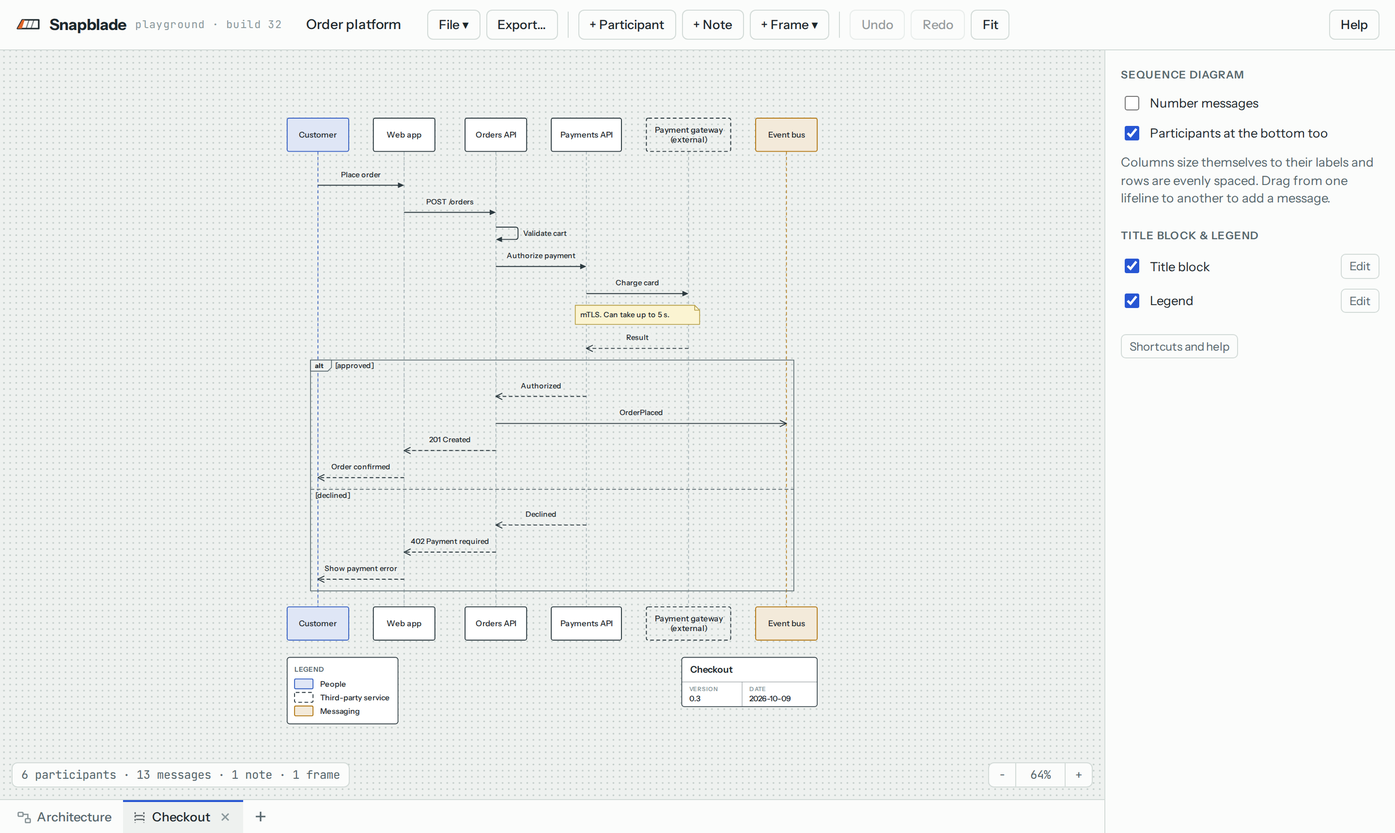
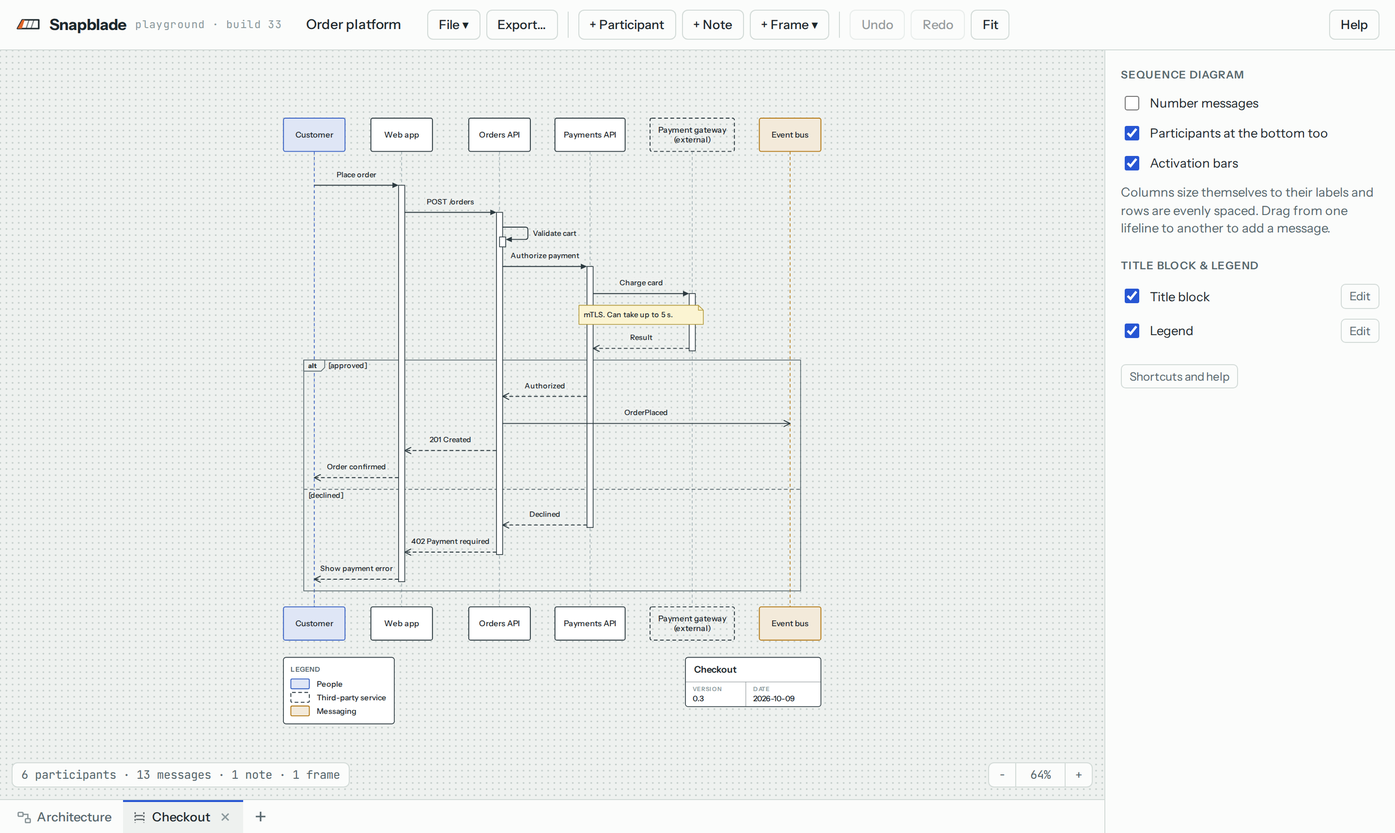
Sequence diagrams: activation bars
Drawn automatically, on by default (Activation bars setting). A sync
call opens a bar on the callee; each reply closes the latest open call
between the two, so re-entrant calls nest. Alt sections are alternative
paths, so a reply in each keeps the bar to the last. With no reply the
bar lasts to the callee's last message before the caller sends again;
async starts none. Arrows end at bar edges; notes and columns make room.
Frames now always cover their lifelines and keep off the ones they
don't. The tab export test waits for its downloads instead of a fixed
time. Build 33.

diff --git a/index.html b/index.html
@@ -269,6 +269,7 @@ dl.keys dd { margin: 0; }
 .n-fold { fill: none; stroke: var(--ln, var(--note-stroke)); stroke-width: 1.25; stroke-linejoin: round; }
 .note.sel .n-body, .note.sel .n-fold { stroke: var(--accent); stroke-width: 2; }
 .n-text { font: 500 12px var(--ui); fill: var(--ink); pointer-events: none; }
+.s-act { fill: var(--fl, var(--node-bg)); stroke: var(--ln, var(--node-stroke)); stroke-width: 1.25; pointer-events: none; }
 .frame, .fsec, .fend { cursor: row-resize; }
 .frame .hit, .fsec .hit, .fend .hit { fill: none; stroke: transparent; stroke-width: 12; }
 .f-box { fill: none; stroke: var(--ink-2); stroke-width: 1.25; pointer-events: none; }
@@ -379,7 +380,7 @@ dl.keys dd { margin: 0; }
         <path d="M11 17.5 L14 8.5 M16 17.5 L19 8.5" stroke="currentColor" stroke-width="1.2" opacity=".55"/>
         <path d="M2 17.5 L7 8.5 H9.5 L6.5 17.5 Z" fill="var(--port)"/>
       </svg>
-      Snapblade <span class="tag">playground &middot; build 32</span>
+      Snapblade <span class="tag">playground &middot; build 33</span>
     </div>
     <div class="doc">
       <input id="docName" class="docname" value="Untitled diagram" aria-label="Diagram name" spellcheck="false" autocomplete="off">
@@ -528,7 +529,7 @@ function sample() {
       E('e8', 'inv', 'cache'), { ...E('e9', 'inv', 'idb'), label: 'SQL' },
       { ...E('e10', 'pay', 'gw'), label: 'REST\nmTLS', style: { dash: 'dashed' } },
     ],
-    settings: { mode: 'straighten', grid: 10, showSlots: true, routing: 'ortho', radius: 6, labelPos: 'start', walls: true, autonumber: false, footbox: true },
+    settings: { mode: 'straighten', grid: 10, showSlots: true, routing: 'ortho', radius: 6, labelPos: 'start', walls: true, autonumber: false, footbox: true, activation: true },
     title: { ...titleDefaults(), show: true, title: 'Order platform', version: '0.3', date: todayIso() },
     legend: { ...legendDefaults(), show: true, labels: {
       'box:blue||pair': 'People and client apps', 'box:green||pair': 'Database', 'box:amber||pair': 'Cache',
@@ -1410,7 +1411,7 @@ function straighten(ids) {
    a message from one lifeline to another (or to itself), or a note beside, over or across lifelines. Nothing has a
    position: seqLayout() sizes each column from the labels next to it and spaces the rows evenly, so it stays tidy. */
 const SEQ = { minW: 100, padX: 14, headH: 40, nameLh: 16, gap: 40, rowTop: 30, rowGap: 14, lh: 15, labelPad: 12, head: 10,
-  self: 36, selfH: 20, noteGap: 12, notePad: 8, fold: 8, span: 18, tail: 26, framePad: 12, tabH: 18, tabCut: 6 };
+  self: 36, selfH: 20, noteGap: 12, notePad: 8, fold: 8, span: 18, tail: 26, framePad: 12, tabH: 18, tabCut: 6, actHalf: 5, actStep: 5, actStub: 16 };
 const MAX_PARTS = 100, MAX_ROWS = 1000;   // the most a file (or a paste) can add
 const MAX_DEPTH = 20;                      // frames inside frames
 const MSG_TYPES = [['sync', 'Sync'], ['async', 'Async'], ['reply', 'Reply']];
@@ -1431,6 +1432,8 @@ const hasContent = () => isSeq() ? S.parts.length > 0 : S.nodes.length > 0;
 // A reply is dashed unless its style says otherwise.
 const msgDash = r => r.style?.dash || (r.type === 'reply' ? 'dashed' : 'solid');
 const withDash = r => ({ ...r, style: { ...(r.style || {}), dash: msgDash(r) } });
+// An activation bar takes its participant's colors, but is always solid and filled, so it hides the lifeline.
+const barStyle = p => { const { dash, ...st } = p.style || {}; if (st.fill === 'none') delete st.fill; return { ...p, style: st }; };
 
 function seqSample() {
   const P = (id, label, o = {}) => ({ id, kind: 'participant', label, ...o });
@@ -1457,6 +1460,49 @@ function seqSample() {
   };
 }
 
+// Activation bars, from row indexes. A sync call starts one on the participant it calls, and a reply back closes the
+// latest open call between the two, as calls nest. An alt's sections are alternatives: each starts from the calls
+// open at the top of the frame, and a call's bar runs to its last reply in any of them. A call with no reply lasts to
+// the callee's last message before the caller sends again (a stub if there's none); an unanswered self-call is a stub.
+// Async messages start no bar. A bar that starts while another is open on the same participant sits one level in.
+function seqActivations(rows) {
+  const bars = [], frames = [];
+  let open = dict();   // "from>to": the calls still waiting for a reply, latest last
+  const copy = o => { const c = dict(); for (const k in o) c[k] = [...o[k]]; return c; };
+  rows.forEach((r, i) => {
+    if (r.kind === 'frame') frames.push(r.type === 'alt' ? { alt: true, top: copy(open), ends: [] } : {});
+    else if (r.kind === 'else') { const f = frames[frames.length - 1]; if (f?.alt) { f.ends.push(open); open = copy(f.top); } }
+    else if (r.kind === 'end') {
+      const f = frames.pop();
+      if (f?.alt) {
+        // After the alt, a call is still open if some section left it open (whichever section opened it).
+        const ends = [...f.ends, open], next = dict();
+        for (const k of new Set([...Object.keys(f.top), ...ends.flatMap(e => Object.keys(e))])) {
+          const top = f.top[k] || [], kept = top.filter(b => ends.some(e => (e[k] || []).includes(b)));
+          next[k] = [...kept, ...new Set(ends.flatMap(e => (e[k] || []).filter(b => !top.includes(b))))].sort((x, y) => x.i - y.i);
+        }
+        open = next;
+      }
+    } else if (isMsg(r) && r.type === 'sync') {
+      const b = { p: r.to, from: r.from, i, end: -1, key: r.from + '>' + r.to };
+      bars.push(b); (open[b.key] ||= []).push(b);
+    } else if (isMsg(r) && r.type === 'reply') {
+      const list = open[r.to + '>' + r.from], b = list?.pop();
+      if (b) b.end = Math.max(b.end, i);
+    }
+  });
+  const msgAt = j => isMsg(rows[j]) ? rows[j] : null;
+  for (const b of bars) {
+    if (b.end >= 0) continue;
+    b.end = b.i;
+    if (b.p === b.from) continue;
+    let j = b.i + 1;
+    for (; j < rows.length; j++) { const m = msgAt(j); if (m && m.from === b.from) break; }
+    for (let k = b.i + 1; k < j; k++) { const m = msgAt(k); if (m && (m.from === b.p || m.to === b.p)) b.end = k; }
+  }
+  for (const b of bars) b.level = bars.filter(o => o.p === b.p && o.i < b.i && o.end >= b.i).length;
+  return bars.map(({ p, i, end, level }) => ({ p, i, end, level }));
+}
 function seqLayout(fam = UI_STACK) {
   const nameFont = `500 13px ${fam}`, textFont = `500 12px ${fam}`;
   const linesOf = s => String(s).split('\n');
@@ -1468,29 +1514,37 @@ function seqLayout(fam = UI_STACK) {
   const need = P.map(() => []);
   const apart = (i, j, d) => { if (i > j) [i, j] = [j, i]; if (i !== j && i >= 0 && j < P.length) need[j].push([i, d]); };
   for (let i = 1; i < P.length; i++) apart(i - 1, i, (P[i - 1].w + P[i].w) / 2 + SEQ.gap);
+  // Activation: the deepest bar open on a participant at a row (-1 for none); `starting` counts one that starts there.
+  // An arrow ends at that bar's edge, so columns and notes make room for it.
+  const acts = S.settings.activation ? seqActivations(S.rows) : [];
+  const level = (p, r, starting) => acts.reduce((L, b) => b.p === p && (b.i < r && b.end >= r || starting && b.i === r) ? Math.max(L, b.level) : L, -1);
+  const reach = L => L < 0 ? 0 : L * SEQ.actStep + SEQ.actHalf;
   let num = 0;
-  const R = S.rows.map(r => {
+  const R = S.rows.map((r, idx) => {
     if (r.kind === 'frame') return { r, mark: 'frame', h: SEQ.tabH + 2 };
     if (r.kind === 'else') return { r, mark: 'else', h: guard(r.label) ? SEQ.lh + 4 : 4 };
     if (r.kind === 'end') return { r, mark: 'end', h: 0 };
     if (isNote(r)) {
       const ls = linesOf(r.label), w = Math.max(60, widest(ls, textFont) + 2 * SEQ.notePad + SEQ.fold), h = ls.length * SEQ.lh + 2 * SEQ.notePad;
       const a = at[r.on[0]], b = r.side === 'over' && r.on.length > 1 ? at[r.on[1]] : a;
-      if (r.side === 'right') apart(a, a + 1, w + 2 * SEQ.noteGap);
-      else if (r.side === 'left') apart(a - 1, a, w + 2 * SEQ.noteGap);
+      const L = acts.reduce((m, o) => o.p === r.on[0] && o.i < idx && o.end > idx ? Math.max(m, o.level) : m, -1);
+      const ext = r.side === 'left' ? (L < 0 ? 0 : SEQ.actHalf) : reach(L);   // a bar steps right as it nests
+      if (r.side === 'right') apart(a, a + 1, w + 2 * SEQ.noteGap + ext);
+      else if (r.side === 'left') apart(a - 1, a, w + 2 * SEQ.noteGap + ext);
       else if (a === b) { apart(a - 1, a, w / 2 + SEQ.noteGap); apart(a, a + 1, w / 2 + SEQ.noteGap); }
       else apart(a, b, w - 2 * SEQ.span);
-      return { r, note: true, ls, w, h, a: Math.min(a, b), b: Math.max(a, b) };
+      return { r, note: true, ls, w, h, a: Math.min(a, b), b: Math.max(a, b), ext };
     }
     const text = (S.settings.autonumber ? `${++num}. ` : '') + r.label;
     const ls = text ? linesOf(text) : [], lw = widest(ls, textFont), lh = ls.length * SEQ.lh, a = at[r.from], b = at[r.to];
+    const la = level(r.from, idx, false), lb = level(r.to, idx, r.type === 'sync');
     if (a === b) {
-      const loop = Math.max(SEQ.selfH, lh + 4);
-      apart(a, a + 1, SEQ.self + (lw ? lw + 8 : 0) + SEQ.labelPad);
-      return { r, self: true, ls, lw, lh, a, b, loop, h: loop + 10 };
+      const loop = Math.max(SEQ.selfH, lh + 4), out = Math.max(reach(la), reach(lb));
+      apart(a, a + 1, SEQ.self + out + (lw ? lw + 8 : 0) + SEQ.labelPad);
+      return { r, self: true, ls, lw, lh, a, b, la, lb, out, loop, h: loop + 10 };
     }
-    apart(a, b, lw + 2 * SEQ.labelPad);
-    return { r, ls, lw, lh, a, b, h: (ls.length ? lh + 5 : 6) + 10 };
+    apart(a, b, lw + 2 * SEQ.labelPad + reach(la) + reach(lb));
+    return { r, ls, lw, lh, a, b, la, lb, h: (ls.length ? lh + 5 : 6) + 10 };
   });
   const frames = seqFrameSpans(R, P, apart, fam);
   P.forEach((q, j) => { q.x = Math.round(j ? Math.max(...need[j].map(([i, d]) => P[i].x + d)) : q.w / 2); });
@@ -1502,21 +1556,31 @@ function seqLayout(fam = UI_STACK) {
     g.y = y; y += g.h + SEQ.rowGap;
     if (g.note) {
       const xa = P[g.a].x, xb = P[g.b].x;
-      if (g.r.side === 'right') g.x = xa + SEQ.noteGap;
-      else if (g.r.side === 'left') g.x = xa - SEQ.noteGap - g.w;
+      if (g.r.side === 'right') g.x = xa + g.ext + SEQ.noteGap;
+      else if (g.r.side === 'left') g.x = xa - g.ext - SEQ.noteGap - g.w;
       else if (g.a === g.b) g.x = Math.round(xa - g.w / 2);
       else { g.x = xa - SEQ.span; g.w = xb - xa + 2 * SEQ.span; }
       grow(g.x, g.x + g.w);
     } else if (g.self) {
-      g.x1 = g.x2 = P[g.a].x; g.ay = g.y + 5; g.by = g.ay + g.loop;
-      grow(g.x1, g.x1 + SEQ.self + (g.lw ? g.lw + 8 : 0));
+      // Out from the bar it's in, round, and back into the bar it starts (or to the same spot).
+      const x = P[g.a].x, edge = L => L < 0 ? 0 : L * SEQ.actStep + SEQ.actHalf;
+      g.x1 = x + edge(g.la); g.x2 = x + edge(g.lb); g.xr = x + g.out + SEQ.self; g.ay = g.y + 5; g.by = g.ay + g.loop;
+      grow(g.x1, g.xr + (g.lw ? g.lw + 8 : 0));
     } else if (!g.mark) {
-      g.x1 = P[g.a].x; g.x2 = P[g.b].x; g.ay = g.y + g.h - 5;
+      // Arrows start and end at the edge of an activation bar, the side facing the other end.
+      const dir = Math.sign(P[g.b].x - P[g.a].x) || 1, edge = (L, d) => L < 0 ? 0 : L * SEQ.actStep + d * SEQ.actHalf;
+      g.x1 = P[g.a].x + edge(g.la, dir); g.x2 = P[g.b].x + edge(g.lb, -dir); g.ay = g.y + g.h - 5;
     }
   }
+  const A = acts.map(b => {
+    const s = R[b.i], e = R[b.end], y1 = s.self ? s.by - 4 : s.ay, y2 = b.end === b.i ? y1 + SEQ.actStub : (e.self ? e.by : e.ay) + 4;
+    const q = P[at[b.p]], x = q.x + b.level * SEQ.actStep - SEQ.actHalf;
+    grow(x, x + 2 * SEQ.actHalf);
+    return { ...b, q, x, y1, y2, w: 2 * SEQ.actHalf };
+  });
   for (const f of frames) { seqFramePlace(f, R, P); grow(f.x1, f.x2); }
   const end = (R.length ? y - SEQ.rowGap : H + SEQ.rowTop) + SEQ.tail;   // where lifelines stop (and the bottom heads start)
-  return { H, P, R, end, bounds: { x1, y1: 0, x2, y2: S.settings.footbox ? end + H : end } };
+  return { H, P, R, A, end, bounds: { x1, y1: 0, x2, y2: S.settings.footbox ? end + H : end } };
 }
 // Frames, innermost first: the rows each holds, the columns they touch, and room for its tab and condition.
 // A frame is as wide as the lifelines its rows touch plus a margin, so a frame inside another sits inset.
@@ -1524,10 +1588,17 @@ function seqFrameSpans(R, P, apart, fam) {
   const font = `500 12px ${fam}`;
   const out = [], stack = [];
   R.forEach((g, i) => {
-    if (g.mark === 'frame') { const f = { g, i, secs: [], kids: [], a: Infinity, b: -Infinity, levels: 0 }; stack.at(-1)?.kids.push(f); stack.push(f); }
+    if (g.mark === 'frame') { const f = { g, i, secs: [], kids: [], items: [], a: Infinity, b: -Infinity, levels: 0 }; stack.at(-1)?.kids.push(f); stack.push(f); }
     else if (g.mark === 'else') stack.at(-1)?.secs.push(g);
     else if (g.mark === 'end') { const f = stack.pop(); if (!f) return; f.end = g; f.j = i; out.push(f); }
-    else for (const f of stack) { f.a = Math.min(f.a, g.a, g.b); f.b = Math.max(f.b, g.a, g.b); }
+    else {
+      // What reaches past a lifeline: {c: column, l: px to its left, r: px to its right}.
+      const side = g.r.side, w = g.w, gap = (g.ext || 0) + SEQ.noteGap + w;
+      const items = !g.note ? (g.self ? [{ c: g.a, l: 0, r: g.out + SEQ.self + (g.lw ? g.lw + 8 : 0) }] : [{ c: Math.min(g.a, g.b), l: 0, r: 0 }, { c: Math.max(g.a, g.b), l: 0, r: 0 }])
+        : side === 'right' ? [{ c: g.a, l: 0, r: gap }] : side === 'left' ? [{ c: g.a, l: gap, r: 0 }]
+        : g.a === g.b ? [{ c: g.a, l: w / 2, r: w / 2 }] : [{ c: g.a, l: SEQ.span, r: 0 }, { c: g.b, l: 0, r: SEQ.span }];
+      for (const f of stack) { f.items.push(...items); f.a = Math.min(f.a, g.a, g.b); f.b = Math.max(f.b, g.a, g.b); }
+    }
   });
   for (const f of out) {   // innermost first, so a frame knows what's inside it
     for (const k of f.kids) { f.a = Math.min(f.a, k.a); f.b = Math.max(f.b, k.b); f.levels = Math.max(f.levels, k.levels + 1); }
@@ -1540,6 +1611,9 @@ function seqFrameSpans(R, P, apart, fam) {
     const pad = SEQ.framePad * (f.levels + 1);
     if (f.a < f.b) apart(f.a, f.b, f.need - 2 * pad);
     else apart(f.a, f.a + 1, f.need - pad + SEQ.framePad);
+    // A frame never reaches a lifeline it doesn't cover.
+    const clear = pad + SEQ.framePad + SEQ.actHalf;
+    for (const it of f.items) { apart(it.c, f.b + 1, it.r + clear); apart(f.a - 1, it.c, it.l + clear); }
   }
   return out;
 }
@@ -1549,10 +1623,11 @@ function seqFramePlace(f, R, P) {
   for (let i = f.i + 1; i < f.j; i++) {
     const g = R[i];
     if (g.note) take(g.x, g.x + g.w);
-    else if (g.self) take(g.x1, g.x1 + SEQ.self + (g.lw ? g.lw + 8 : 0));
+    else if (g.self) take(Math.min(g.x1, g.x2), g.xr + (g.lw ? g.lw + 8 : 0));
     else if (!g.mark) take(Math.min(g.x1, g.x2), Math.max(g.x1, g.x2));
   }
   for (const k of f.kids) take(k.x1, k.x2);
+  if (f.a <= f.b) take(P[f.a].x - SEQ.actHalf, P[f.b].x + SEQ.actHalf);   // its lifelines, and the bars on them
   if (x1 > x2) { const a = P[0]?.x ?? 0, b = P[P.length - 1]?.x ?? a; x1 = a - SEQ.framePad; x2 = b + SEQ.framePad; }
   else { x1 -= SEQ.framePad; x2 += SEQ.framePad; }
   x2 = Math.max(x2, x1 + f.need);
@@ -1562,7 +1637,7 @@ function seqFramePlace(f, R, P) {
 }
 // Draw a layout. `p` paints: CSS classes and hit areas on the canvas, plain colors in exports.
 function seqMarkup(L, p) {
-  const { H, P, R, end } = L, r2 = v => Math.round(v * 100) / 100;
+  const { H, P, R, A = [], end } = L, r2 = v => Math.round(v * 100) / 100;
   const texts = (ls, x, top, lh, size, attrs, anchor) => ls.map((t, i) =>
     `<text x="${r2(x)}" y="${r2(top + i * lh + lh / 2 + size * 0.35)}" text-anchor="${anchor}" ${attrs}>${esc(t)}</text>`).join('');
   let out = '';
@@ -1587,6 +1662,7 @@ function seqMarkup(L, p) {
         + '</g>';
     } else out += `<g ${p.frameEnd(g)}>${p.hit(across)}</g>`;
   }
+  for (const a of A) out += `<rect x="${a.x}" y="${r2(a.y1)}" width="${a.w}" height="${r2(a.y2 - a.y1)}" ${p.act(a)}/>`;
   for (const g of R) {
     if (g.mark) continue;
     if (g.note) {
@@ -1600,8 +1676,8 @@ function seqMarkup(L, p) {
     const open = g.r.type !== 'sync', inset = open ? 0 : SEQ.head / 2;
     let d, dir;
     if (g.self) {
-      const x = g.x1, xr = x + SEQ.self;
-      d = pathD([{ x, y: g.ay }, { x: xr, y: g.ay }, { x: xr, y: g.by }, { x: x + inset, y: g.by }], 4); dir = -1;
+      const xr = g.xr;
+      d = pathD([{ x: g.x1, y: g.ay }, { x: xr, y: g.ay }, { x: xr, y: g.by }, { x: g.x2 + inset, y: g.by }], 4); dir = -1;
     } else {
       dir = Math.sign(g.x2 - g.x1) || 1;
       d = `M${g.x1},${g.ay} L${g.x2 - dir * inset},${g.ay}`;
@@ -1610,7 +1686,7 @@ function seqMarkup(L, p) {
     const arrow = open ? `<path d="M${bx},${ty - hw} L${tx},${ty} L${bx},${ty + hw}" ${p.open(g)}/>`
       : `<path d="M${tx},${ty} L${bx},${ty - hw} L${bx},${ty + hw} Z" ${p.fill(g)}/>`;
     let label = '';
-    if (g.ls.length && g.self) label = texts(g.ls, g.x1 + SEQ.self + 8, (g.ay + g.by - g.lh) / 2, SEQ.lh, 12, p.label(g), 'start');
+    if (g.ls.length && g.self) label = texts(g.ls, g.xr + 8, (g.ay + g.by - g.lh) / 2, SEQ.lh, 12, p.label(g), 'start');
     else if (g.ls.length) {
       const mid = (g.x1 + g.x2) / 2;   // the label breaks the lifelines it crosses
       label = `<rect x="${r2(mid - g.lw / 2 - 4)}" y="${g.y - 1}" width="${g.lw + 8}" height="${g.lh + 2}" rx="2" ${p.labelBg(g)}/>`
@@ -1896,7 +1972,8 @@ function normalize(s) {
     showSlots: typeof st.showSlots === 'boolean' ? st.showSlots : def.showSlots, routing: oneOf(st.routing, valuesOf(ROUTINGS), def.routing),
     radius: numIn(st.radius, def.radius, 0, 16), labelPos: oneOf(st.labelPos, LABEL_POS, def.labelPos),
     walls: typeof st.walls === 'boolean' ? st.walls : def.walls,
-    autonumber: typeof st.autonumber === 'boolean' ? st.autonumber : def.autonumber, footbox: typeof st.footbox === 'boolean' ? st.footbox : def.footbox };
+    autonumber: typeof st.autonumber === 'boolean' ? st.autonumber : def.autonumber, footbox: typeof st.footbox === 'boolean' ? st.footbox : def.footbox,
+    activation: typeof st.activation === 'boolean' ? st.activation : def.activation };
   const ti = isObj(s.title) ? s.title : {}, tdef = titleDefaults();
   const title = { show: ti.show === true, title: strOr(ti.title), version: strOr(ti.version), date: strOr(ti.date), author: strOr(ti.author), pos: oneOf(ti.pos, CORNER_IDS, tdef.pos) };
   const lg = isObj(s.legend) ? s.legend : {}, ldef = legendDefaults();
@@ -1966,6 +2043,7 @@ function settingsDocs() {
     walls: `true or false: keep shapes ${WALL} px apart while the user edits. Default ${d.walls}.`,
     autonumber: `true or false: number the messages of a sequence diagram. Default ${d.autonumber}.`,
     footbox: `true or false: draw a sequence diagram's participants at the bottom too. Default ${d.footbox}.`,
+    activation: `true or false: draw a sequence diagram's activation bars (see Sequence diagrams). Default ${d.activation}.`,
   };
 }
 const legendExamples = () => [
@@ -2098,7 +2176,7 @@ A sequence diagram is a different kind of file: participants left to right, and 
 - A message: \`{"id": "m1", "from": "cust", "to": "web", "type": "sync", "label": "Place order"}\`. \`from\` and \`to\` are participant ids, the same one for a self-message; a message naming a participant that doesn't exist is dropped. \`type\` is ${or(valuesOf(MSG_TYPES).map(q))}: a call that waits for an answer (filled arrowhead), one that doesn't wait (open arrowhead), or the answer (dashed). Default \`"sync"\`. \`style\`: \`line\` and \`dash\` only; a reply is dashed unless \`dash\` says otherwise.
 - A note: \`{"id": "n1", "kind": "note", "side": "right", "on": ["gw"], "label": "Can take up to 5 s"}\`. \`side\` is ${or(valuesOf(NOTE_SIDES).map(q))}. \`on\` lists the participant it sits beside, or for \`"over"\` one or two participants (the note spans from one to the other). A note takes a row of its own. \`style\` works as for boxes.
 - A frame (alt, opt, loop, par) is rows around the rows it holds: a start \`{"id": "f1", "kind": "frame", "type": "alt", "label": "approved"}\`, then the rows, then an end \`{"id": "f1x", "kind": "end"}\`. For an alt or par, an else line \`{"id": "f1e", "kind": "else", "label": "declined"}\` between them starts the next section. \`type\` is ${or(valuesOf(FRAME_TYPES).map(q))}: ${FRAME_TYPES.map(([v]) => FRAME_HINTS[v]).join(', ')}. Default ${q('alt')}. \`label\` is the condition, shown in brackets (leave the brackets out). Frames nest, at most ${MAX_DEPTH} deep. An end with no start, or an else line outside an alt or par, is dropped; a start with no end is closed after the last row. A frame is drawn as wide as the lifelines its rows touch.
-- \`settings.autonumber\` numbers the messages and \`settings.footbox\` repeats the participants at the bottom; the other settings don't apply. The title block and legend work as above.
+- \`settings.autonumber\` numbers the messages, \`settings.footbox\` repeats the participants at the bottom, and \`settings.activation\` (default \`true\`) draws activation bars. Bars are automatic: a sync call starts one on the participant it calls, and a reply back closes the latest open call between the two (in an alt, each section's reply counts and the bar runs to the last). A call with no reply lasts to that participant's last message before the caller sends again. Async messages start none. So send a reply for every call you want to read as finished. The other settings don't apply. The title block and legend work as above.
 - Put each reply right after the call it answers. Keep labels short: an operation, an endpoint or an event name.
 
 The sequence sample that ships with Snapblade:
@@ -2538,6 +2616,7 @@ function renderSeq() {
     labelBg: () => 'class="s-label-bg"', label: () => 'class="s-label"',
     note: g => `class="${cls('note', g.r.id)}" data-role="row" data-id="${esc(g.r.id)}" style="${styleVars(g.r)}"`,
     noteBody: () => 'class="n-body"', fold: () => 'class="n-fold"', noteText: () => 'class="n-text"',
+    act: a => `class="s-act" style="${styleVars(barStyle(a.q.p))}"`,
     frame: g => `class="${cls('frame', g.r.id)}" data-role="row" data-id="${esc(g.r.id)}"`,
     frameBox: () => 'class="f-box"', tab: () => 'class="f-tab"', kind: () => 'class="f-kind"', guard: () => 'class="f-guard"',
     sec: g => `class="${cls('fsec', g.r.id)}" data-role="row" data-id="${esc(g.r.id)}"`, secLine: () => 'class="f-else"',
@@ -2664,6 +2743,7 @@ function seqDiagramPanel() {
     <p class="eyebrow">Sequence diagram</p>
     <label class="check"><input id="f-autonumber" type="checkbox" data-field="autonumber"${st.autonumber ? ' checked' : ''}> Number messages</label>
     <label class="check"><input id="f-footbox" type="checkbox" data-field="footbox"${st.footbox ? ' checked' : ''}> Participants at the bottom too</label>
+    <label class="check"><input id="f-activation" type="checkbox" data-field="activation"${st.activation ? ' checked' : ''}> Activation bars</label>
     <p class="desc">Columns size themselves to their labels and rows are evenly spaced. Drag from one lifeline to another to add a message.</p>
   </section>
   ${annSection()}`;
@@ -2987,7 +3067,7 @@ function onField(t) {
   if (f === 'radius') { st.radius = +t.value; t.previousElementSibling.textContent = `Corner radius · ${st.radius} px`; render(); save(); return; }
   if (f === 'showSlots') { st.showSlots = t.checked; render(); save(); return; }
   if (f === 'walls') { st.walls = t.checked; save(); return; }
-  if (f === 'autonumber' || f === 'footbox') { st[f] = t.checked; render(); save(); return; }
+  if (f === 'autonumber' || f === 'footbox' || f === 'activation') { st[f] = t.checked; render(); save(); return; }
   if (f === 'showTitle' || f === 'showLegend') {
     pushUndo();
     const blk = f === 'showTitle' ? S.title : S.legend;
@@ -3248,7 +3328,7 @@ function openSeqEditor(id, fresh) {
     if (g.mark === 'frame') b = { x: g.x1 + g.tw + 2, y: g.y - 4, w: Math.max(180, g.gw + 30), h: SEQ.tabH + 8 };
     else if (g.mark === 'else') b = { x: g.x1 + 4, y: g.y, w: Math.max(180, g.gw + 30), h: SEQ.lh + 10 };
     else if (isNote(o)) b = { x: g.x, y: g.y, w: g.w, h: g.h };
-    else if (g.self) b = { x: g.x1 + SEQ.self + 4, y: g.y, w: Math.max(140, g.lw + 20), h: Math.max(30, g.h) };
+    else if (g.self) b = { x: g.xr + 4, y: g.y, w: Math.max(140, g.lw + 20), h: Math.max(30, g.h) };
     else { const w = Math.max(140, g.lw + 20); b = { x: (g.x1 + g.x2) / 2 - w / 2, y: g.y - 4, w, h: Math.max(30, g.lh + 10) }; }
   }
   Object.assign(editor.style, { left: b.x * view.k + view.x + 'px', top: b.y * view.k + view.y + 'px', width: Math.max(120, b.w * view.k) + 'px',
@@ -3751,7 +3831,8 @@ function guideHtml() {
       <li>The <b>Frame</b> panel sets its <b>Kind</b> and <b>Condition</b>. In an Alt, <b>+ Else line</b> starts another section (in a Par, <b>+ And line</b>): it goes in at the bottom of the frame, and you drag it up to where its section starts. An <b>Else line</b> or <b>And line</b> has its own Condition, and <b>Delete line</b>. Switching to Opt or Loop removes the lines, not the rows.</li>
       <li>Drag a frame's top or bottom edge to take in more or fewer rows; a message dragged past an edge moves in or out. <b>Move up</b> and <b>Move down</b> (or the arrow keys) move the whole frame with what's in it. <b>Remove frame</b> or the Delete key takes the frame away and keeps what was inside; <b>Delete with contents</b> takes everything. Frames nest, and each one is as wide as the lifelines its rows touch.</li>
       <li><b>Duplicate</b> (Ctrl+D) puts a copy of a message, note, frame (with what's in it) or participant right after it. <b>Delete message</b>, <b>Delete note</b>, <b>Delete participant</b> or the Delete key removes one.</li>
-      <li>The <b>Sequence diagram</b> settings: <b>Number messages</b>, and <b>Participants at the bottom too</b>.</li></ul>`],
+      <li>The <b>Sequence diagram</b> settings: <b>Number messages</b>, <b>Participants at the bottom too</b> and <b>Activation bars</b>.</li>
+      <li>Activation bars draw themselves. A Sync call starts a bar on the participant it calls, which lasts until the last Reply back (so a reply in each section of an alt keeps it going through all of them). With no reply, it lasts until that participant's last message before the caller sends anything else. Async messages start no bar. A call into a participant that's already busy, or a self-message, adds a bar beside the first. Arrows end at the bars, and notes keep clear of them.</li></ul>`],
     ['tabs', 'Tabs', `<p>One file can hold several diagrams, each on its own tab along the bottom of the canvas: an architecture view and the sequence diagrams that go with it, say.</p><ul>
       <li><b>Add a tab</b> (the + at the end of the tabs) offers a <b>Box diagram</b>, a <b>Sequence diagram</b>, or <b>Duplicate this tab</b>. A new tab goes right after the open one.</li>
       <li>Click a tab to open it. Double-click the open tab (or press F2 on it) to rename it; drag a tab sideways to move it. The arrow keys move between tabs when one has the focus.</li>
@@ -4138,6 +4219,7 @@ function buildExportSvg(o) {
       noteBody: g => { const c = col(g.r); return `fill="${c.fill}"${fo(c)} stroke="${c.line}" stroke-width="1.25" stroke-linejoin="round"${dash(g.r.style)}`; },
       fold: g => `fill="none" stroke="${col(g.r).line}" stroke-width="1.25" stroke-linejoin="round"`,
       noteText: () => `${fontAttrs(12, 500)} fill="${ink}"`,
+      act: a => { const c = col(barStyle(a.q.p)); return `fill="${c.fill}"${fo(c)} stroke="${c.line}" stroke-width="1.25"`; },
       frame: () => '', sec: () => '', frameEnd: () => '',
       frameBox: () => `fill="none" stroke="${frameInk}" stroke-width="1.25"`,
       tab: () => `fill="${labelBg}" stroke="${frameInk}" stroke-width="1.25" stroke-linejoin="round"`,

diff --git a/README.md b/README.md
@@ -25,7 +25,7 @@ Manual tools (Visio, draw.io, Lucidchart) give you full control, and then you sp
 - **Shapes that can't overlap.** Shapes side by side stay at least 20 px apart, so connectors always have room between them. A dragged shape stops at the wall and slides along it, a resized edge stops at it, and a container that grows pushes its neighbors out of the way. Hold Alt to overlap anyway, or turn it off for the diagram.
 - **Connector labels.** Placed near the start, center or end, and kept clear of boxes, other labels and other connectors.
 - **Arrange.** Line a selection up as a row or a column (tops, middles, bottoms, lefts, centers or rights) with kept, even or fixed spacing, without ever stacking shapes on top of each other. Straighten moves shapes just enough that their connectors run straight.
-- **Sequence diagrams.** Participants and messages laid out automatically: columns as wide as their labels need, rows evenly spaced. Drag from one lifeline to another to add a message at that row, drag rows and participants to reorder, and press Enter after a label to go straight on to the next message. Sync, async and reply messages, self-messages, notes beside or across lifelines, message numbering. Alt, opt, loop and par frames around a run of rows, with else (or and) sections and conditions; frames nest and size themselves to the lifelines they cover, and you drag a frame's edge to take in more rows.
+- **Sequence diagrams.** Participants and messages laid out automatically: columns as wide as their labels need, rows evenly spaced. Drag from one lifeline to another to add a message at that row, drag rows and participants to reorder, and press Enter after a label to go straight on to the next message. Sync, async and reply messages, self-messages, notes beside or across lifelines, message numbering. Activation bars draw themselves from each call to its reply. Alt, opt, loop and par frames around a run of rows, with else (or and) sections and conditions; frames nest and size themselves to the lifelines they cover, and you drag a frame's edge to take in more rows.
 - **Tabs.** One file holds several diagrams, box or sequence, on tabs along the bottom. Add, duplicate, rename and drag tabs to reorder; each keeps its own undo history, view, title block and legend. Copy and paste work between tabs.
 - **Styling.** Line and fill colors from presets, a picker, hex or RGB, with fills that pair automatically as a tint of the line color. Solid, dashed and dotted lines. Light and dark themes.
 - **Fast editing.** Multi-select, same size, match colors, copy and paste style, copy, paste, duplicate, undo and redo.
